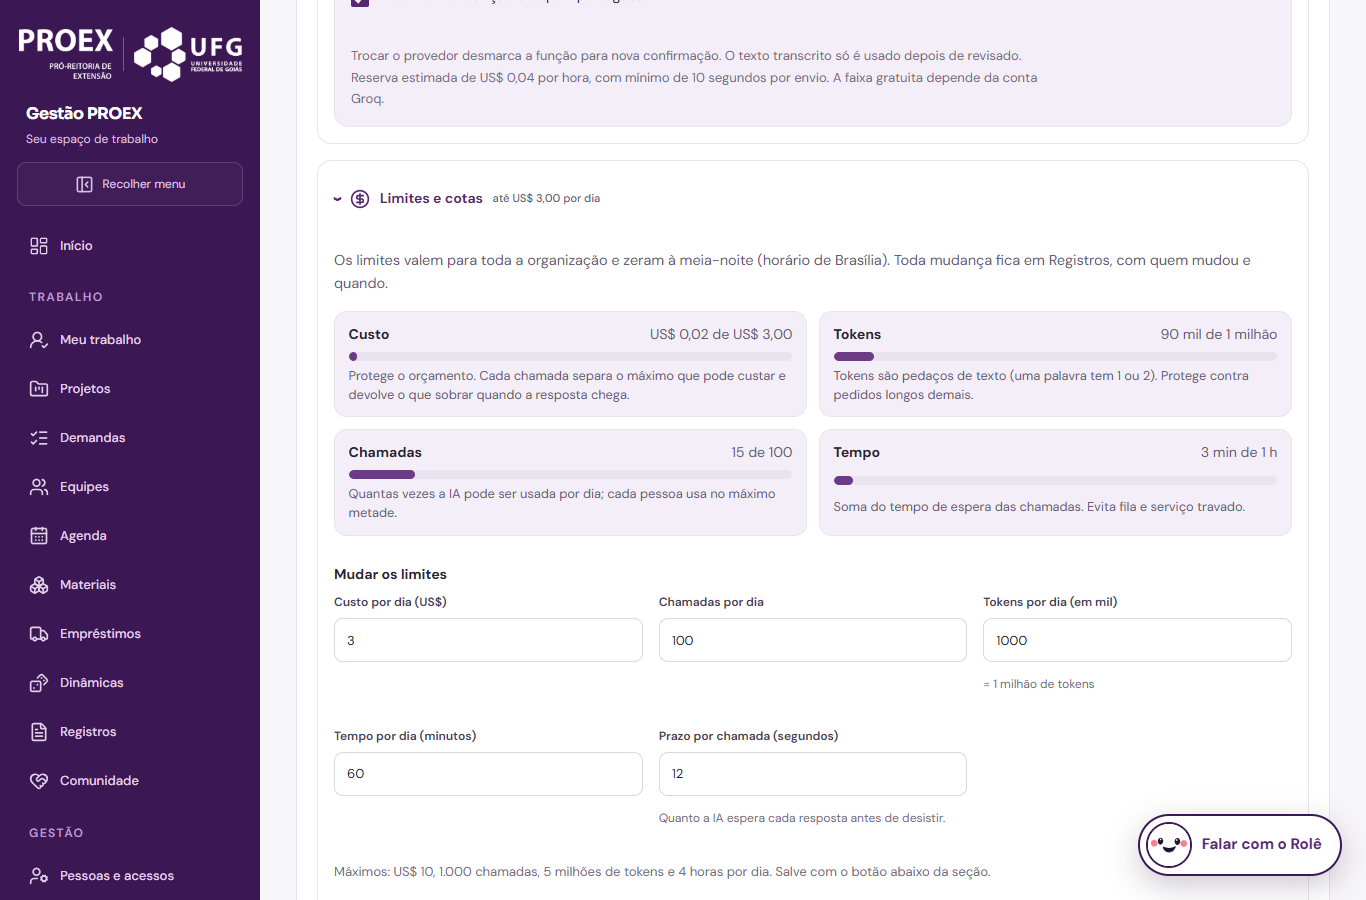
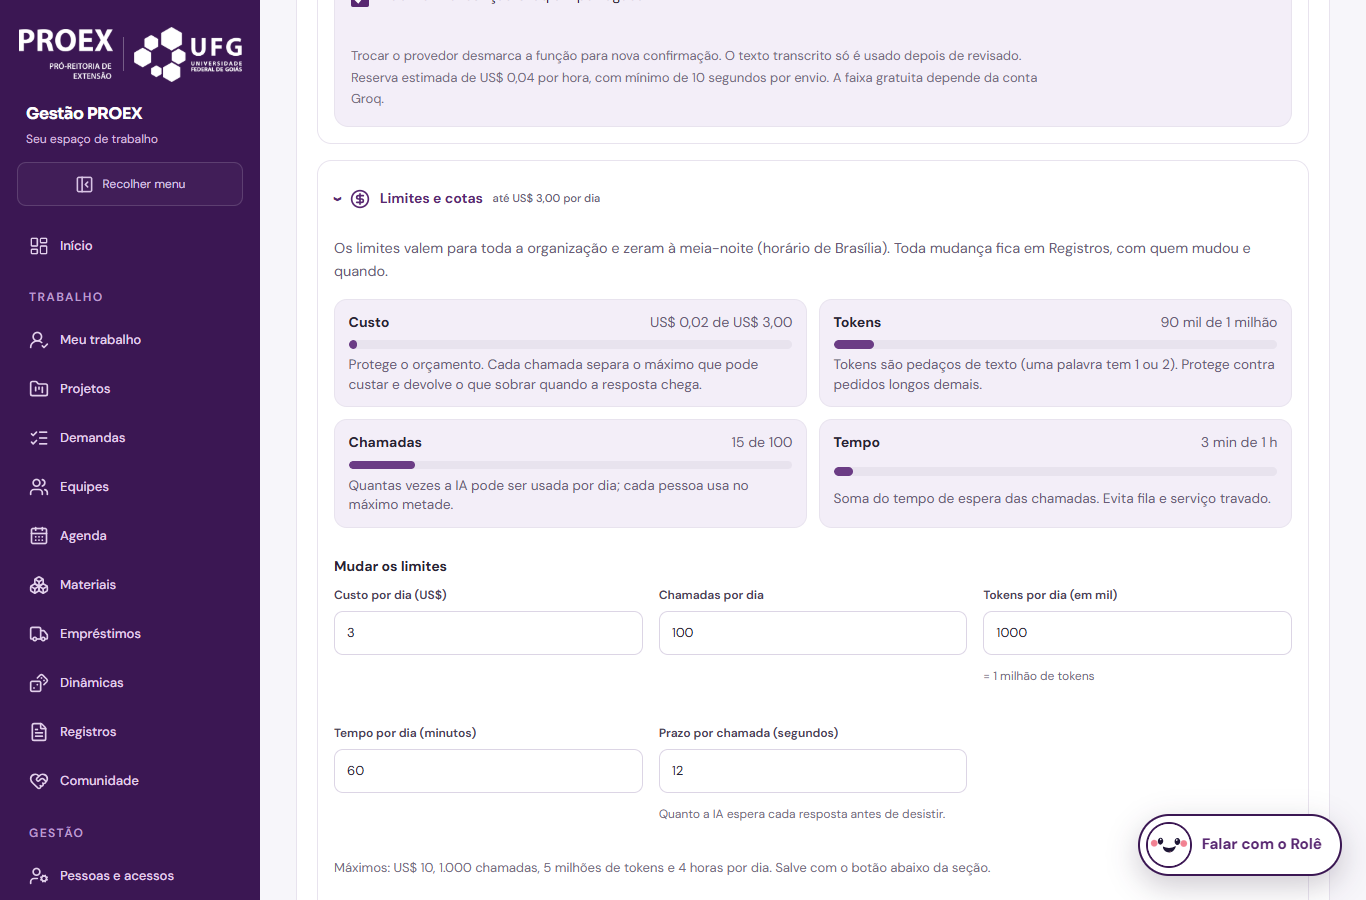
style(portal): mensagem aponta para o botão Ajustar limites, dicas legíveis e capturas do modo de testes

diff --git a/apps/proex-portal/components/portal/role-assistant.tsx b/apps/proex-portal/components/portal/role-assistant.tsx
@@ -147,7 +147,7 @@ export default function RoleAssistant({ projects, defaultProjectId, onApplied, o
     } catch (cause) {
       if (!mounted.current) return;
       setMessages(current => current.filter(message => message.id !== user.id)); setDraft(text); if (image && picked) setPicked(picked);
-      setError(cause instanceof Error ? cause.message : 'O Rolê não conseguiu responder.'); setLimitHit(isLimit(cause));
+      setError(cause instanceof Error ? limitText(cause) : 'O Rolê não conseguiu responder.'); setLimitHit(isLimit(cause));
       if (cause instanceof RequestError && (cause.status === 401 || cause.status === 403)) void loadStatus(projectId);
     } finally { if (mounted.current) setBusy(false); }
   }
@@ -185,7 +185,7 @@ export default function RoleAssistant({ projects, defaultProjectId, onApplied, o
       // O servidor respondeu: a próxima tentativa é outra chamada paga, com chave nova e custo mostrado de novo.
       // Tempo esgotado mantém a chave para recuperar o resultado sem pagar duas vezes.
       const answered = cause instanceof RequestError && cause.code !== 'assistant_call_replay';
-      updateOperation(message.id, { error: cause instanceof Error ? cause.message : 'Não foi possível preparar a operação.', limit: isLimit(cause), ...(answered ? { key: crypto.randomUUID() } : {}) });
+      updateOperation(message.id, { error: cause instanceof Error ? limitText(cause) : 'Não foi possível preparar a operação.', limit: isLimit(cause), ...(answered ? { key: crypto.randomUUID() } : {}) });
     }
     finally { setBusy(false); }
   }
@@ -242,7 +242,7 @@ export default function RoleAssistant({ projects, defaultProjectId, onApplied, o
       setDraft(current => (current ? current + ' ' : '') + result.transcript); discardRecording();
       setNotice('Áudio transcrito. Revise o texto antes de enviar.');
       window.requestAnimationFrame(() => input.current?.focus());
-    } catch (cause) { setError(cause instanceof Error ? cause.message : 'Não foi possível transcrever.'); setLimitHit(isLimit(cause)); }
+    } catch (cause) { setError(cause instanceof Error ? limitText(cause) : 'Não foi possível transcrever.'); setLimitHit(isLimit(cause)); }
     finally { setTranscribing(false); }
   }
 
@@ -258,6 +258,8 @@ export default function RoleAssistant({ projects, defaultProjectId, onApplied, o
 
   if (!projects.length) return null;
   const speechCost = recorded && status ? formatMicros(roleSpeechCeilingMicros(status.speech.provider, recorded.seconds)) : '';
+  // Com o botão na tela, a mensagem aponta para ele em vez de repetir o caminho do menu.
+  const limitText = (cause: Error) => isLimit(cause) && status?.canConfigure && onOpenLimits ? cause.message.replace(/Você pode aumentar [^.]*\.$/, 'Use o botão Ajustar limites abaixo.') : cause.message;
   // Quem pode configurar vai direto a Limites e cotas; os outros já recebem na mensagem o nome de quem ajusta.
   const limitsButton = status?.canConfigure && onOpenLimits ? <button type="button" className={`p-button p-button-primary ${styles.limitsButton}`} onClick={() => { close(); onOpenLimits(); }}>Ajustar limites</button> : null;
 

diff --git a/apps/proex-portal/lib/assistant/quota.ts b/apps/proex-portal/lib/assistant/quota.ts
@@ -14,7 +14,7 @@ const usd = formatUsd, thousand = formatThousands, seconds = formatDuration;
 export async function quotaRefusal(db: D1Database, actor: PortalActor, organizationId: string, day: string, config: AssistantConfig, need: QuotaNeed, personalCap?: { used: number; max: number }) {
   if (personalCap && personalCap.used >= personalCap.max) {
     const who = await responsibleName(db, actor, organizationId);
-    return new HttpError(429, `Você já usou sua parte das chamadas de IA de hoje (${personalCap.used} de ${personalCap.max}); cada pessoa usa no máximo metade das chamadas do dia. O limite volta à meia-noite. ${who.canConfigure ? 'Você pode aumentar as chamadas por dia em Configurações → Chaves e modelos → Funções e acesso.' : `Peça a ${who.name} para aumentar o limite.`}`, 'role_user_quota');
+    return new HttpError(429, `Você já usou sua parte das chamadas de IA de hoje (${personalCap.used} de ${personalCap.max}); cada pessoa usa no máximo metade das chamadas do dia. O limite volta à meia-noite. ${who.canConfigure ? 'Você pode aumentar as chamadas por dia em Configurações → Chaves e modelos → Funções e acesso → Limites e cotas.' : `Peça a ${who.name} para aumentar o limite.`}`, 'role_user_quota');
   }
   const usage = await one(db, 'SELECT reserved_usd_micros,reserved_tokens,reserved_ms,calls FROM ai_organization_usage WHERE organization_id=? AND day=?', [organizationId, day]);
   const used = { cost: Number(usage?.reserved_usd_micros ?? 0), tokens: Number(usage?.reserved_tokens ?? 0), ms: Number(usage?.reserved_ms ?? 0), calls: Number(usage?.calls ?? 0) };
@@ -31,7 +31,7 @@ export async function quotaRefusal(db: D1Database, actor: PortalActor, organizat
   const situation = hit.need > hit.max
     ? `Este pedido é maior que o limite de ${hit.label} do dia (precisa de até ${hit.fmt(hit.need)}${hit.unit(hit.need)}; o limite é ${hit.fmt(hit.max)}${hit.unit(hit.max)}).`
     : `Acabou o limite de ${hit.label} de hoje (uso: ${hit.fmt(hit.used)} de ${hit.fmt(hit.max)}${hit.unit(hit.max)}; este pedido precisa de até ${hit.fmt(hit.need)}${hit.unit(hit.need)}). O limite volta à meia-noite.`;
-  const message = `${situation} ${who.canConfigure ? 'Você pode aumentar o limite em Configurações → Chaves e modelos → Funções e acesso.' : `Peça a ${who.name} para aumentar o limite.`}`;
+  const message = `${situation} ${who.canConfigure ? 'Você pode aumentar o limite em Configurações → Chaves e modelos → Funções e acesso → Limites e cotas.' : `Peça a ${who.name} para aumentar o limite.`}`;
   return new HttpError(429, message, 'assistant_quota');
 }
 

diff --git a/apps/proex-portal/components/portal/ai-limits-section.module.css b/apps/proex-portal/components/portal/ai-limits-section.module.css
@@ -15,7 +15,7 @@
 .meter{display:grid;gap:.4rem;padding:.75rem .85rem;border:1px solid var(--line);border-radius:.8rem;background:var(--surface-soft);min-width:0}
 .meterTop{display:flex;flex-wrap:wrap;justify-content:space-between;gap:.25rem .75rem;align-items:baseline}
 .meterTop span{font-variant-numeric:tabular-nums;color:var(--text-secondary);font-size:max(13px,.88rem)}
-.meter small{color:var(--text-secondary);line-height:1.45;font-size:max(12px,.8rem)}
+.meter small{color:var(--text-secondary);line-height:1.45;font-size:max(13px,.85rem)}
 .track{height:.55rem;border-radius:999px;background:var(--meter-track);overflow:hidden}
 .section{--meter-fill:#6b3c85;--meter-track:var(--line)}
 :global(html[data-theme=dark]) .section{--meter-fill:#c99be6;--meter-track:rgb(255 255 255 / .14)}
@@ -23,7 +23,7 @@
 .meter[data-level=mid] .track i{background:var(--orange)}
 .meter[data-level=high] .track i{background:var(--danger)}
 .meter[data-level=high] .meterTop span{color:var(--danger);font-weight:700}
-.fields{display:grid;gap:1rem;margin:.75rem 0 0;padding:0;border:0;min-width:0}
+.fields{display:grid;gap:1rem;row-gap:1.25rem;align-items:start;margin:.75rem 0 0;padding:0;border:0;min-width:0}
 .fields legend{padding:0;margin-bottom:.5rem;font-weight:700}
 .test{display:grid;gap:.75rem;padding:.85rem;border:1px solid var(--line);border-radius:.8rem}
 .testing .test{border:1px dashed color-mix(in srgb,var(--orange) 60%,var(--line))}
@@ -31,6 +31,6 @@
 .test :global(.p-button){justify-self:start;min-height:44px;display:inline-flex;align-items:center;gap:.4rem}
 @container (min-width:620px){.meters{grid-template-columns:repeat(2,minmax(0,1fr))}.fields{grid-template-columns:repeat(3,minmax(0,1fr))}.fields legend{grid-column:1/-1}}
 @media (prefers-reduced-motion:reduce){.section>summary::before{transition:none}}
-.body{display:grid;gap:1rem;margin-top:.75rem;min-width:0}
-.hint{display:block;margin-top:.35rem;color:var(--text-secondary);font-size:max(12px,.8rem);font-weight:500;line-height:1.4}
+.body{display:grid;gap:1rem;margin-top:0;min-width:0}
+.hint{display:block;margin:.35rem 0 0;color:var(--text-secondary);font-size:max(13px,.85rem);font-weight:500;line-height:1.4}
 

diff --git a/apps/proex-portal/components/portal/role-assistant.module.css b/apps/proex-portal/components/portal/role-assistant.module.css
@@ -91,4 +91,4 @@
 .operation textarea{resize:none}
 .editable select{width:100%;min-height:44px;padding:0 .6rem;border:1px solid var(--control-border);border-radius:10px;background:var(--surface);color:var(--text-strong);font:inherit;font-size:16px}
 .warn{color:var(--warning-ink);font-weight:650}
-.limitsButton{justify-self:start;align-self:flex-start;min-height:44px;margin-top:.25rem;font-size:max(14px,.9rem)}
+.limitsButton{justify-self:start;align-self:flex-start;min-height:44px;margin-top:.25rem;font-size:max(14px,.9rem);box-shadow:none}
